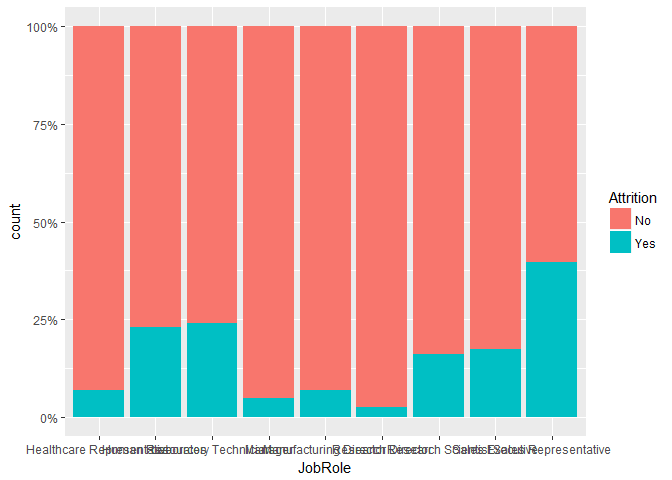
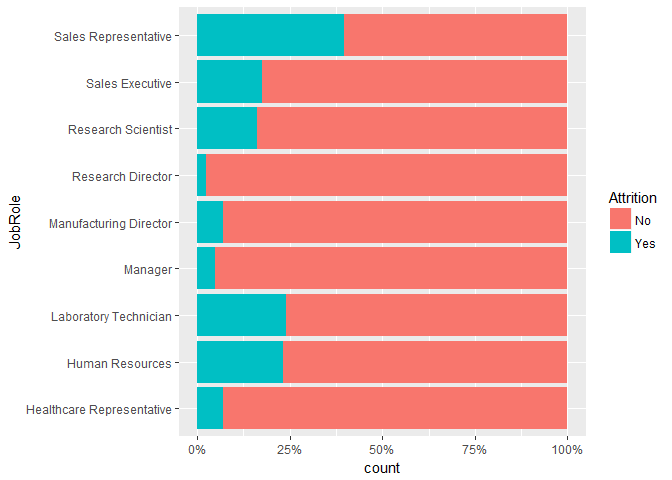
Show Attrition data by department

diff --git a/CaseStudy2.md b/CaseStudy2.md
@@ -72,11 +72,11 @@ featurePlot(x = case_data[, c('Age', 'YearsAtCompany')], y = case_data$Attrition
 ``` r
 ## attrition by job role
 ggplot(case_data, aes(x = JobRole, fill = Attrition)) +
-stat_count(width = 0.5) +
-xlab("Job Role") +
-ylab("Count") +
-labs(fill = "Attrition") +
-coord_flip()
+  stat_count(width = 0.5) +
+  xlab("Job Role") +
+  ylab("Count") +
+  labs(fill = "Attrition") +
+  coord_flip()
 ```
 
 ![](CaseStudy2_files/figure-markdown_github/unnamed-chunk-1-3.png)
@@ -84,7 +84,10 @@ coord_flip()
 ``` r
 ## attrition by job role in percentage
 library('scales')
-ggplot(case_data, aes(x = JobRole)) + geom_bar(aes(fill = Attrition), position = 'fill') + scale_y_continuous(labels = percent_format())
+ggplot(case_data, aes(x = JobRole)) + 
+  geom_bar(aes(fill = Attrition), position = 'fill') + 
+  scale_y_continuous(labels = percent_format()) +
+  coord_flip()
 ```
 
 ![](CaseStudy2_files/figure-markdown_github/unnamed-chunk-1-4.png)
